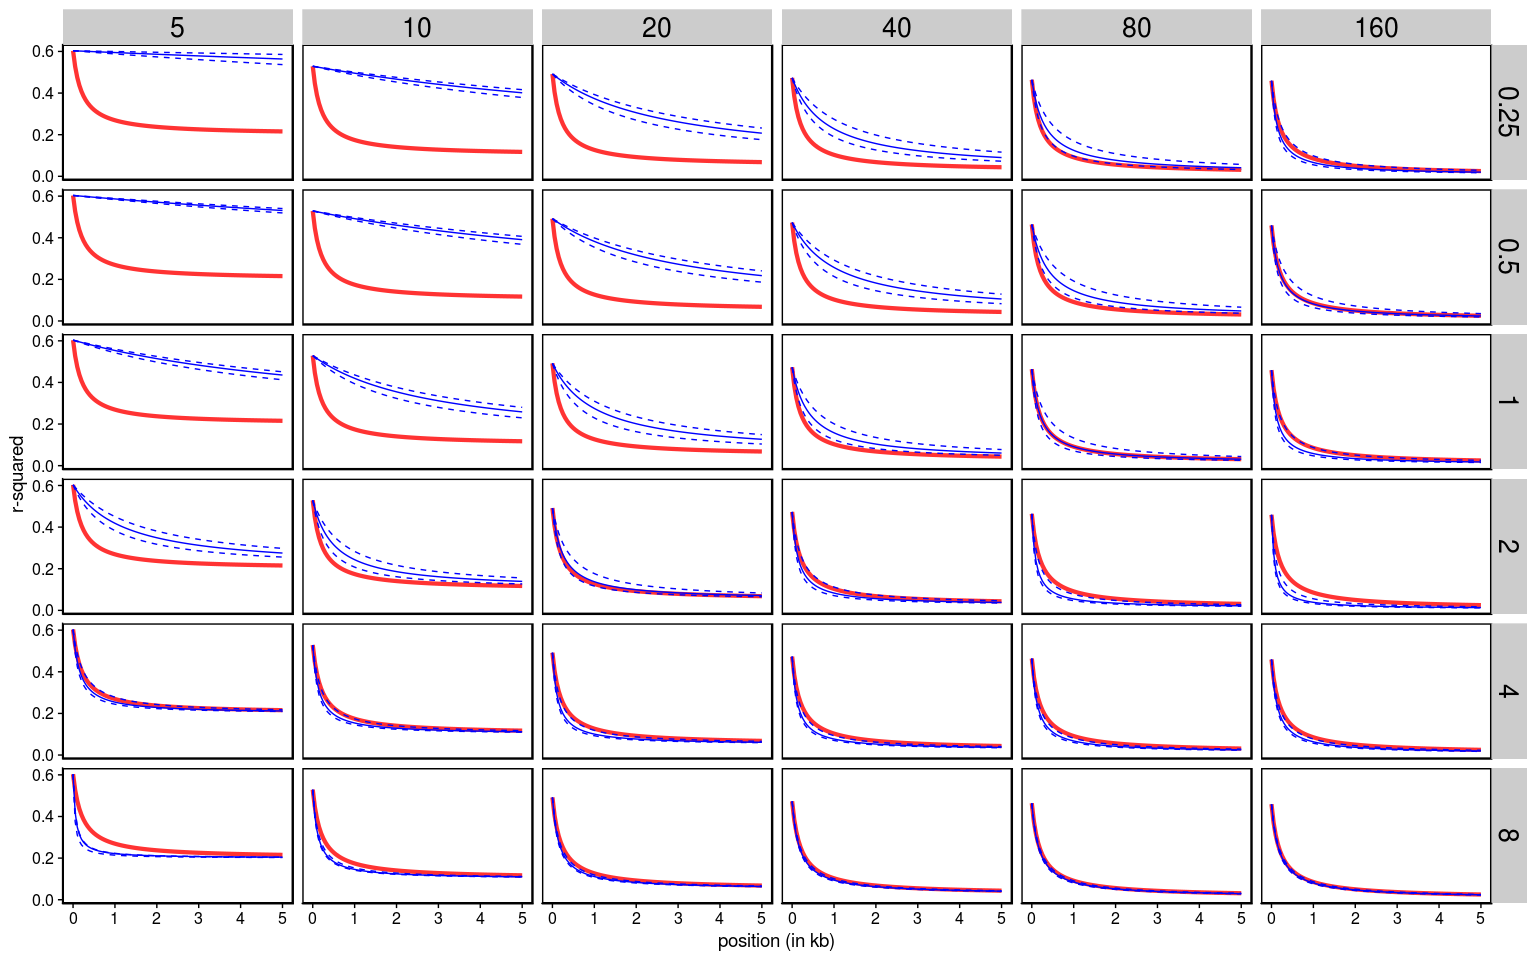
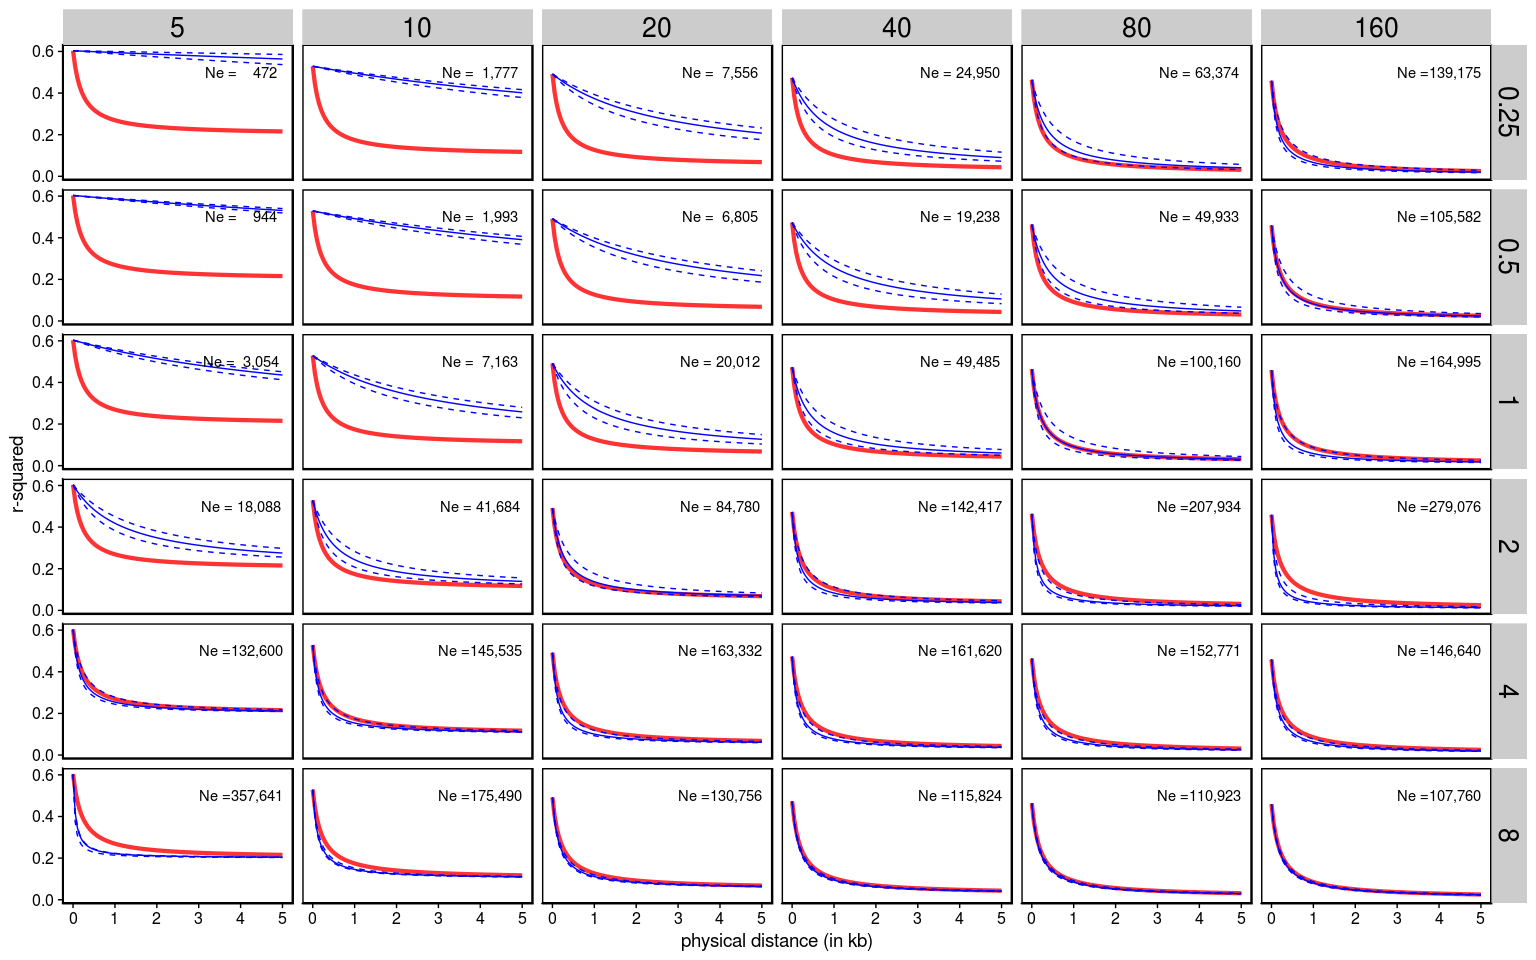
updated LD figures

diff --git a/markdowns/data_analysis_neutral.md b/markdowns/data_analysis_neutral.md
@@ -646,15 +646,18 @@ ld_for_plotting <- estimated_decay_rate_final %>%
          estimated_ld_l = get_ld(decay_rate_l*position, sample_size),
          estimated_ld_u = get_ld(decay_rate_u*position, sample_size),
          true_ld = get_ld(4*1000*250e-8*position, sample_size))
+estimated_ne <- estimated_decay_rate_final %>%
+  mutate(ne = decay_rate / 4 / 2.5e-8)
 ld_for_plotting %>%
   ggplot(aes(x=position/1000)) +
   geom_line(aes(y=true_ld), color = "red", size=1.5, alpha=0.8) +
   geom_line(aes(y=estimated_ld), color = "blue", ) +
   geom_line(aes(y=estimated_ld_l), color = "blue", linetype="dashed") +
   geom_line(aes(y=estimated_ld_u), color = "blue", linetype="dashed") +
+  geom_text(data = estimated_ne, aes(label=str_c("Ne =", format(round(ne), big.mark = ","))), x = 4, y = 0.5) +
   facet_grid(coverage ~ sample_size) +
   cowplot::theme_cowplot() +
-  labs(x = "position (in kb)", y = "r-squared") +
+  labs(x = "physical distance (in kb)", y = "r-squared") +
   theme(strip.text = element_text(size=20),
         axis.text.x = element_text(angle=0),
         panel.border = element_rect(colour = "black", fill=NA, size=1)) 
@@ -667,11 +670,12 @@ ld_for_plotting %>%
 ``` r
 i=1
 for (sample_size in c(5, 10, 20, 40, 80, 160)) {
+  print(sample_size)
   for (coverage in c(0.25, 0.5, 1, 2, 4, 8)) {
     estimated_ld <- read_tsv(str_c("../neutral_sim/rep_1/angsd/bam_list_", sample_size, "_", coverage, "x.ld"), col_names =FALSE) %>%
       transmute(position=X5, ld=X9) %>%
       group_by(position) %>%
-      summarise(mean_ld=mean(ld), ld_l=quantile(ld, 0.025), ld_u=quantile(ld, 0.975)) %>%
+      summarise(mean_ld=mean(ld), ld_l=quantile(ld, 0.25), ld_u=quantile(ld, 0.75)) %>%
       mutate(sample_size = sample_size, coverage = coverage)
     if(i==1){
       estimated_ld_final <- estimated_ld
@@ -691,14 +695,13 @@ estimated_ld %>%
   mutate(c = 4*1000*250e-8*position,
          expected_ld = ((10+c) / ((2+c)*(11+c)))*(1+((3+c)*(12+12*c+c^2))/(sample_size*(2+c)*(11+c)))
          ) %>%
-  ggplot(aes(x = position)) +
-  geom_line(aes(y = expected_ld), color = "red", size = 1) +
-  #geom_line(aes(y = ld_u), size=1, color="gray") +
-  #geom_line(aes(y = ld_l), size=1, color="gray") +
-  geom_line(aes(y = mean_ld), size=1, color="blue", alpha=0.5) +
+  ggplot(aes(x = position/1000)) +
+  geom_ribbon(aes(ymax = ld_u, ymin=ld_l), fill="blue", alpha=0.1) +
+  geom_line(aes(y = expected_ld), color = "red", size = 1.5) +
+  geom_line(aes(y = mean_ld), size=0.8, color="blue", alpha=0.8) +
   facet_grid(coverage ~ sample_size) +
   cowplot::theme_cowplot() +
-  labs(x = "position (in kb)", y = "r-squared") +
+  labs(x = "physical distance (in kb)", y = "r-squared") +
   theme(strip.text = element_text(size=20),
         axis.text.x = element_text(angle=0),
         panel.border = element_rect(colour = "black", fill=NA, size=1)) 
